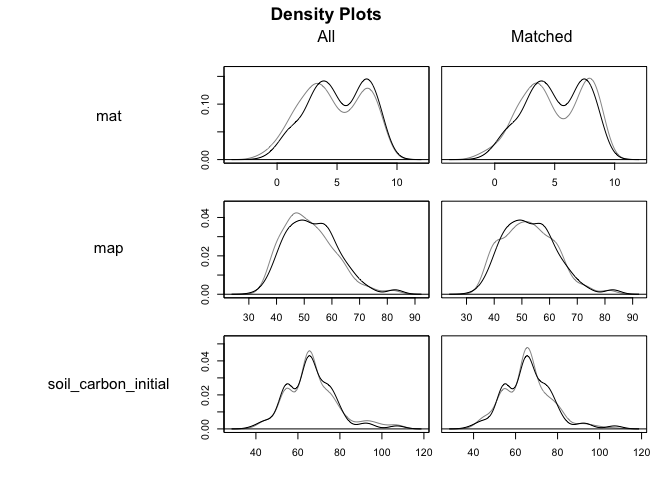
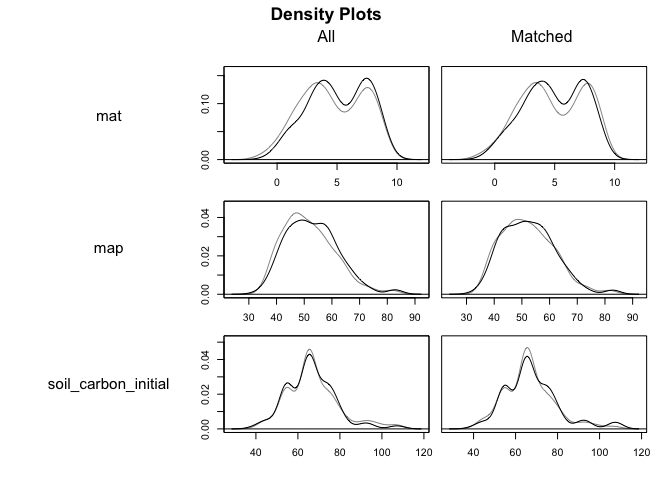
Update explore-matching

diff --git a/code/exploration/2023-12-05_explore-matching.md b/code/exploration/2023-12-05_explore-matching.md
@@ -212,9 +212,10 @@ matching, subclassification, or profile matching can be used.”*
 may be possible, in which case generalised full matching and
 subclassification are faster solutions.”*
 
-It seems like optimal full matching would be best (`method = "full"`),
+It seems like optimal full matching would be best
+([`method = "full"`](https://kosukeimai.github.io/MatchIt/articles/matching-methods.html#optimal-full-matching-method-full)),
 but if it’s too slow we could go for generalised full matching
-(`method = "quick"`).
+([`method = "quick"`](https://kosukeimai.github.io/MatchIt/articles/matching-methods.html#generalized-full-matching-method-quick)).
 
 ``` r
 out_matched <-
@@ -224,7 +225,8 @@ out_matched <-
       volume_oak + volume_beech + volume_southern_broadleaf + volume_larch,
     data = train_data,
     method = "full",
-    distance = "glm"
+    distance = "glm",
+    estimand = "ATE"
   )
 
 print(out_matched)
@@ -235,7 +237,7 @@ print(out_matched)
     ##  - distance: Propensity score
     ##              - estimated with logistic regression
     ##  - number of obs.: 605 (original), 605 (matched)
-    ##  - target estimand: ATT
+    ##  - target estimand: ATE
     ##  - covariates: soil_carbon_initial, altitude, mat, map, soil_moist_code, ditch, no_of_stems, volume_pine, volume_spruce, volume_birch, volume_aspen, volume_oak, volume_beech, volume_southern_broadleaf, volume_larch
 
 ``` r
@@ -248,51 +250,51 @@ summary(out_matched, un = FALSE)
     ##     map + soil_moist_code + ditch + no_of_stems + volume_pine + 
     ##     volume_spruce + volume_birch + volume_aspen + volume_oak + 
     ##     volume_beech + volume_southern_broadleaf + volume_larch, 
-    ##     data = train_data, method = "full", distance = "glm")
+    ##     data = train_data, method = "full", distance = "glm", estimand = "ATE")
     ## 
     ## Summary of Balance for Matched Data:
     ##                           Means Treated Means Control Std. Mean Diff.
-    ## distance                         0.5283        0.5285         -0.0022
-    ## soil_carbon_initial             66.1303       65.8686          0.0227
-    ## altitude                       221.3419      218.5319          0.0187
-    ## mat                              5.0680        5.0281          0.0163
-    ## map                             52.9970       52.5392          0.0488
-    ## soil_moist_code                  1.9935        1.9818          0.0271
-    ## ditch                            0.0645        0.0589          0.0227
-    ## no_of_stems                   1514.0112     1541.6385         -0.0212
-    ## volume_pine                    111.3951      107.3854          0.0633
-    ## volume_spruce                   11.4060       11.6422         -0.0133
-    ## volume_birch                     7.4279        7.2760          0.0106
-    ## volume_aspen                     0.1060        0.0909          0.0089
-    ## volume_oak                       0.2401        0.2873         -0.0188
+    ## distance                         0.5124        0.5125         -0.0010
+    ## soil_carbon_initial             67.6904       66.5726          0.0927
+    ## altitude                       221.4864      222.2147         -0.0052
+    ## mat                              4.9453        4.8463          0.0390
+    ## map                             52.5053       52.1487          0.0381
+    ## soil_moist_code                  2.0560        2.0188          0.0863
+    ## ditch                            0.0659        0.0715         -0.0215
+    ## no_of_stems                   1550.2004     1542.6068          0.0055
+    ## volume_pine                    110.6185      110.5327          0.0013
+    ## volume_spruce                   11.5027       11.5097         -0.0004
+    ## volume_birch                     7.3993        6.5997          0.0634
+    ## volume_aspen                     0.1532        0.1033          0.0331
+    ## volume_oak                       0.1593        0.1961         -0.0194
     ## volume_beech                     0.0000        0.0000          0.0000
     ## volume_southern_broadleaf        0.0000        0.0000          0.0000
     ## volume_larch                     0.0000        0.0000          0.0000
     ##                           Var. Ratio eCDF Mean eCDF Max Std. Pair Dist.
-    ## distance                      0.9786    0.0031   0.0194          0.0151
-    ## soil_carbon_initial           1.0613    0.0156   0.0527          1.0272
-    ## altitude                      1.1834    0.0235   0.0684          1.1310
-    ## mat                           0.8409    0.0309   0.0773          1.0633
-    ## map                           0.9712    0.0177   0.0704          1.0365
-    ## soil_moist_code               1.3778    0.0113   0.0252          0.7053
-    ## ditch                              .    0.0056   0.0056          0.4523
-    ## no_of_stems                   0.6534    0.0278   0.0775          0.9945
-    ## volume_pine                   1.2093    0.0186   0.0569          1.1789
-    ## volume_spruce                 1.0611    0.0291   0.0769          0.9091
-    ## volume_birch                  1.1415    0.0152   0.0384          0.7426
-    ## volume_aspen                  1.9402    0.0014   0.0039          0.1446
-    ## volume_oak                    2.2488    0.0110   0.0232          0.1380
+    ## distance                      0.9845    0.0030   0.0116          0.0150
+    ## soil_carbon_initial           1.1939    0.0193   0.0650          0.9822
+    ## altitude                      1.2522    0.0273   0.0702          1.2010
+    ## mat                           0.8573    0.0289   0.0701          1.0271
+    ## map                           0.9882    0.0170   0.0490          1.0403
+    ## soil_moist_code               1.4630    0.0168   0.0472          0.7091
+    ## ditch                              .    0.0056   0.0056          0.4231
+    ## no_of_stems                   0.7696    0.0240   0.0644          0.9402
+    ## volume_pine                   1.0925    0.0120   0.0428          1.1717
+    ## volume_spruce                 1.0424    0.0177   0.0542          0.9454
+    ## volume_birch                  1.3000    0.0142   0.0402          0.8451
+    ## volume_aspen                  2.7552    0.0020   0.0050          0.1619
+    ## volume_oak                    2.1184    0.0074   0.0170          0.1817
     ## volume_beech                       .    0.0000   0.0000          0.0000
     ## volume_southern_broadleaf          .    0.0000   0.0000          0.0000
     ## volume_larch                       .    0.0000   0.0000          0.0000
     ## 
     ## Sample Sizes:
     ##               Control Treated
-    ## All            295.       310
-    ## Matched (ESS)  145.07     310
-    ## Matched        295.       310
-    ## Unmatched        0.         0
-    ## Discarded        0.         0
+    ## All            295.    310.  
+    ## Matched (ESS)  232.03  245.66
+    ## Matched        295.    310.  
+    ## Unmatched        0.      0.  
+    ## Discarded        0.      0.
 
 ``` r
 plot(summary(out_matched))
@@ -308,7 +310,8 @@ plot(out_matched, type = "jitter", interactive = FALSE)
 
 ![](figures/2023-12-05_explore-matching/unnamed-chunk-9-1.png)<!-- -->
 
-We don’t have any unmatched units, which is good.
+We don’t have any unmatched units, I think this is due to the kind of
+matching we’re doing?
 
 ``` r
 plot(out_matched, type = "density", interactive = FALSE,
@@ -351,9 +354,56 @@ glimpse(matched_data)
     ## $ volume_southern_broadleaf <dbl> 0, 0, 0, 0, 0, 0, 0, 0, 0, 0, 0, 0, 0, 0, 0,…
     ## $ volume_larch              <dbl> 0, 0, 0, 0, 0, 0, 0, 0, 0, 0, 0, 0, 0, 0, 0,…
     ## $ distance                  <dbl> 0.5361771, 0.5115933, 0.4407283, 0.4395186, …
-    ## $ weights                   <dbl> 3.8064516, 1.0000000, 6.6612903, 1.0000000, …
+    ## $ weights                   <dbl> 2.4380165, 0.7685950, 3.9008264, 0.5855962, …
     ## $ subclass                  <fct> 209, 1, 77, 77, 145, 164, 109, 17, 173, 160,…
 
 `distance`, `weights` and `subclass` columns have been added to the
-data. When we model the data, we’re supposed to include the matching
-weights in the estimation.
+data. When we model the data, we need to include the matching weights in
+the estimation - they can be used like propensity scores.
+
+*“The primary output of full matching is a set of matching weights that
+can be applied to the matched sample; in this way, full matching can be
+seen as a robust alternative to propensity score weighting, robust in
+the sense that the propensity score model does not need to be correct to
+estimate the treatment effect without bias.”*
+
+`distance` is the propensity score and `weights` is the probability of a
+non-treated plot being treated or the probability of a treated plot not
+being treated.
+
+We do this because *“If \[a treated individual\] has a low probability
+of treatment, that individual looks like the untreated. However, \[it\]
+was treated. This must be interesting. We have a treated that looks like
+the untreated, so we will give that entity a high weight.”* (Causal
+Inference for the Brave and True,
+[Source](https://www.franciscoyira.com/post/matching-in-r-3-propensity-score-iptw/))
+
+To achieve common support we need to have treatment and control units
+across the propensity score range, and to estimate the ATE, the
+distributions of propensity scores for the treated and untreated units
+should completely overlap.
+
+``` r
+ggplot(matched_data) +
+  geom_density(aes(x = distance, 
+                   group = as.factor(tr), 
+                   fill = as.factor(tr)),
+               alpha = 0.6) +
+  xlim(0,1)
+```
+
+![](figures/2023-12-05_explore-matching/unnamed-chunk-12-1.png)<!-- -->
+
+Looks good, for every value of `distance` (propensity score), there are
+both treated and untreated plots.
+
+# Fit model
+
+I was going to try and fit a t-learner using the weights/propensity
+scores, but I can’t see how to include these in the models. Then I
+realised… isn’t that what the X-learner does? The X-learner adjusts the
+predicted treatment effects by the propensity scores to estimate CATEs.
+
+So, I think I must be using the wrong kind of matching method. I guess
+we want a method that removes plots that can’t be matched / don’t have
+overlap.
